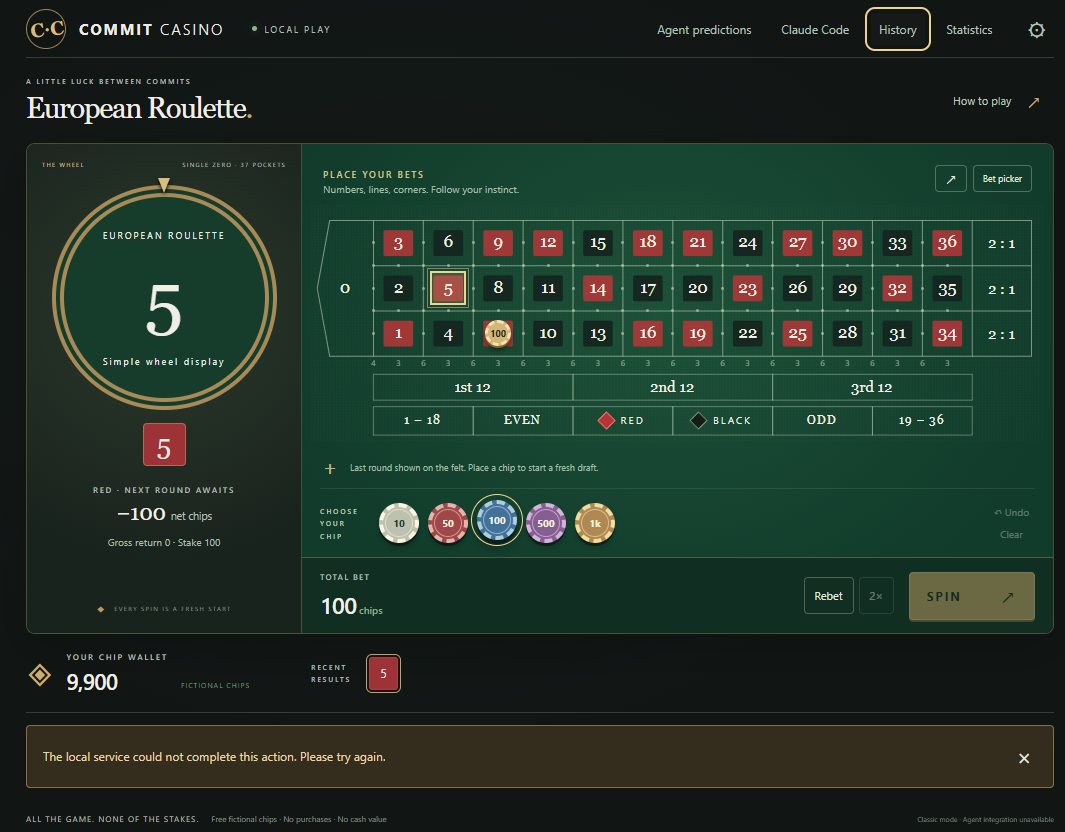
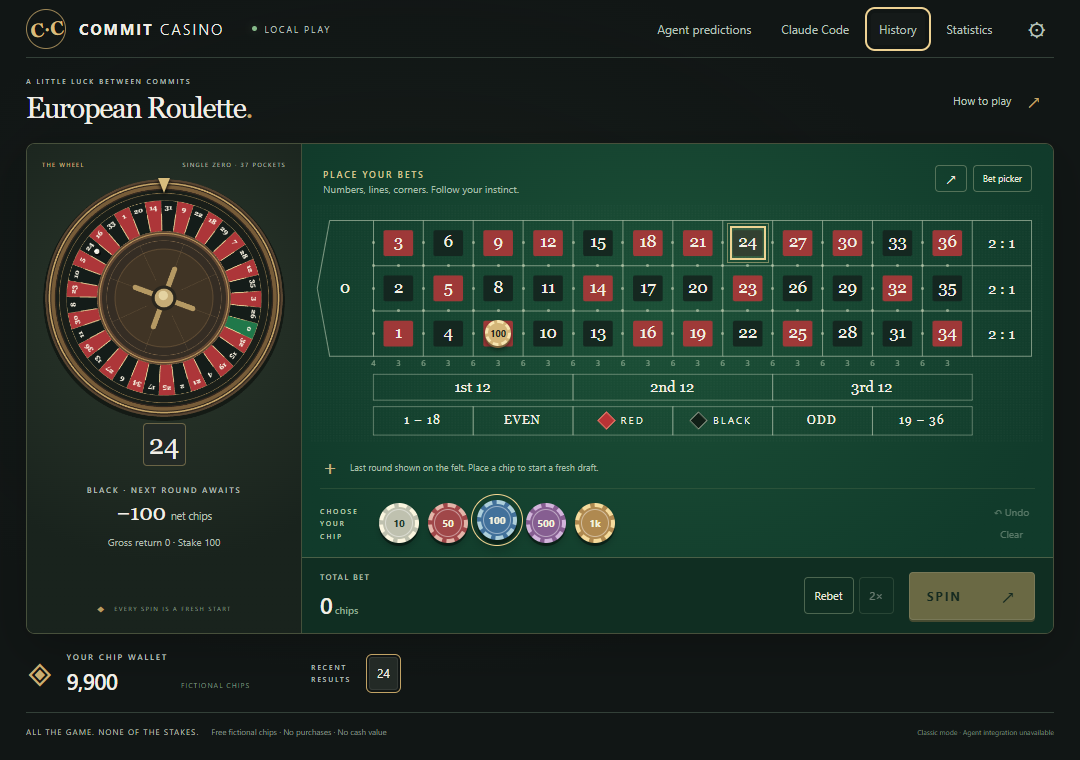
Require rendered native wheel and clean presentation in release smoke

diff --git a/docs/IMPLEMENTATION.md b/docs/IMPLEMENTATION.md
@@ -10,7 +10,7 @@ installation and provider lifecycle checks must be observed before claiming supp
 | Service and storage contracts | Versioned TypeScript/Zod command schemas and DTOs | Strict TypeScript and contract tests |
 | Browser transactional service | IndexedDB authority, serialized transactions, ledger, recovery, explicit temporary mode | 22 storage tests, cross-tab conflicts, replay and injected write failures |
 | Shared game UI | Astra React/Pixi table, wheel, keyboard picker, audio, settings, detailed history/statistics | 157 direct targets; four browser end-to-end flows; nine isolated UI regressions; compact/standard screenshots |
-| Native authority | Rust/SQLite wallet, migrations, ledger, outcomes, settings and window commands | 18 wallet tests including 5,809 native payout combinations; strict Clippy/formatting; native inbox tests |
+| Native authority | Rust/SQLite wallet, migrations, ledger, outcomes, settings and window commands | 19 wallet tests including 5,809 native payout combinations; strict Clippy/formatting; native inbox tests |
 | Passive Claude helper | Compiled bounded signed inbox, explicit hook preview/install/disconnect, optional auto-open | Privacy/signature/replay/watchdog/ownership tests; actual Claude 2.1.287 isolated lifecycle checks |
 | Agent evidence and prediction | Locked pre-prompt arming, attributed structured checks, conservative boundaries, fixed odds, refunds and recovery | Shared Rust/TS policy fixtures; actual pinned runner processes; native registered Vitest→signed inbox→SQLite payout/restart |
 | Windows distribution | Offline WebView2 NSIS installer, compiled helper and license inventory | Actual WebView2 UI→IPC→SQLite smoke; settled restart and process kill during unshown spin recover recorded payout once |
@@ -43,7 +43,7 @@ TypeScript, native tests, Rust formatting and strict Clippy. Browser Playwright
 checks cover offline reload after initial cache installation, local persistence,
 draft operations, payout arithmetic and every direct table target. Graphics-loss,
 hidden-wheel, stale async responses, observer drafts and retry safety have
-separate UI regression cases.
+11 separate UI regression cases. The desktop wheel is verified under a strict CSP with no unsafe-eval requirement. Presentation acknowledgements cannot credit a committed round before settlement.
 
 Final audit regressions cover a shell changing files after its contained tests
 and unavailable provider storage. Mutating tool completion invalidates earlier
